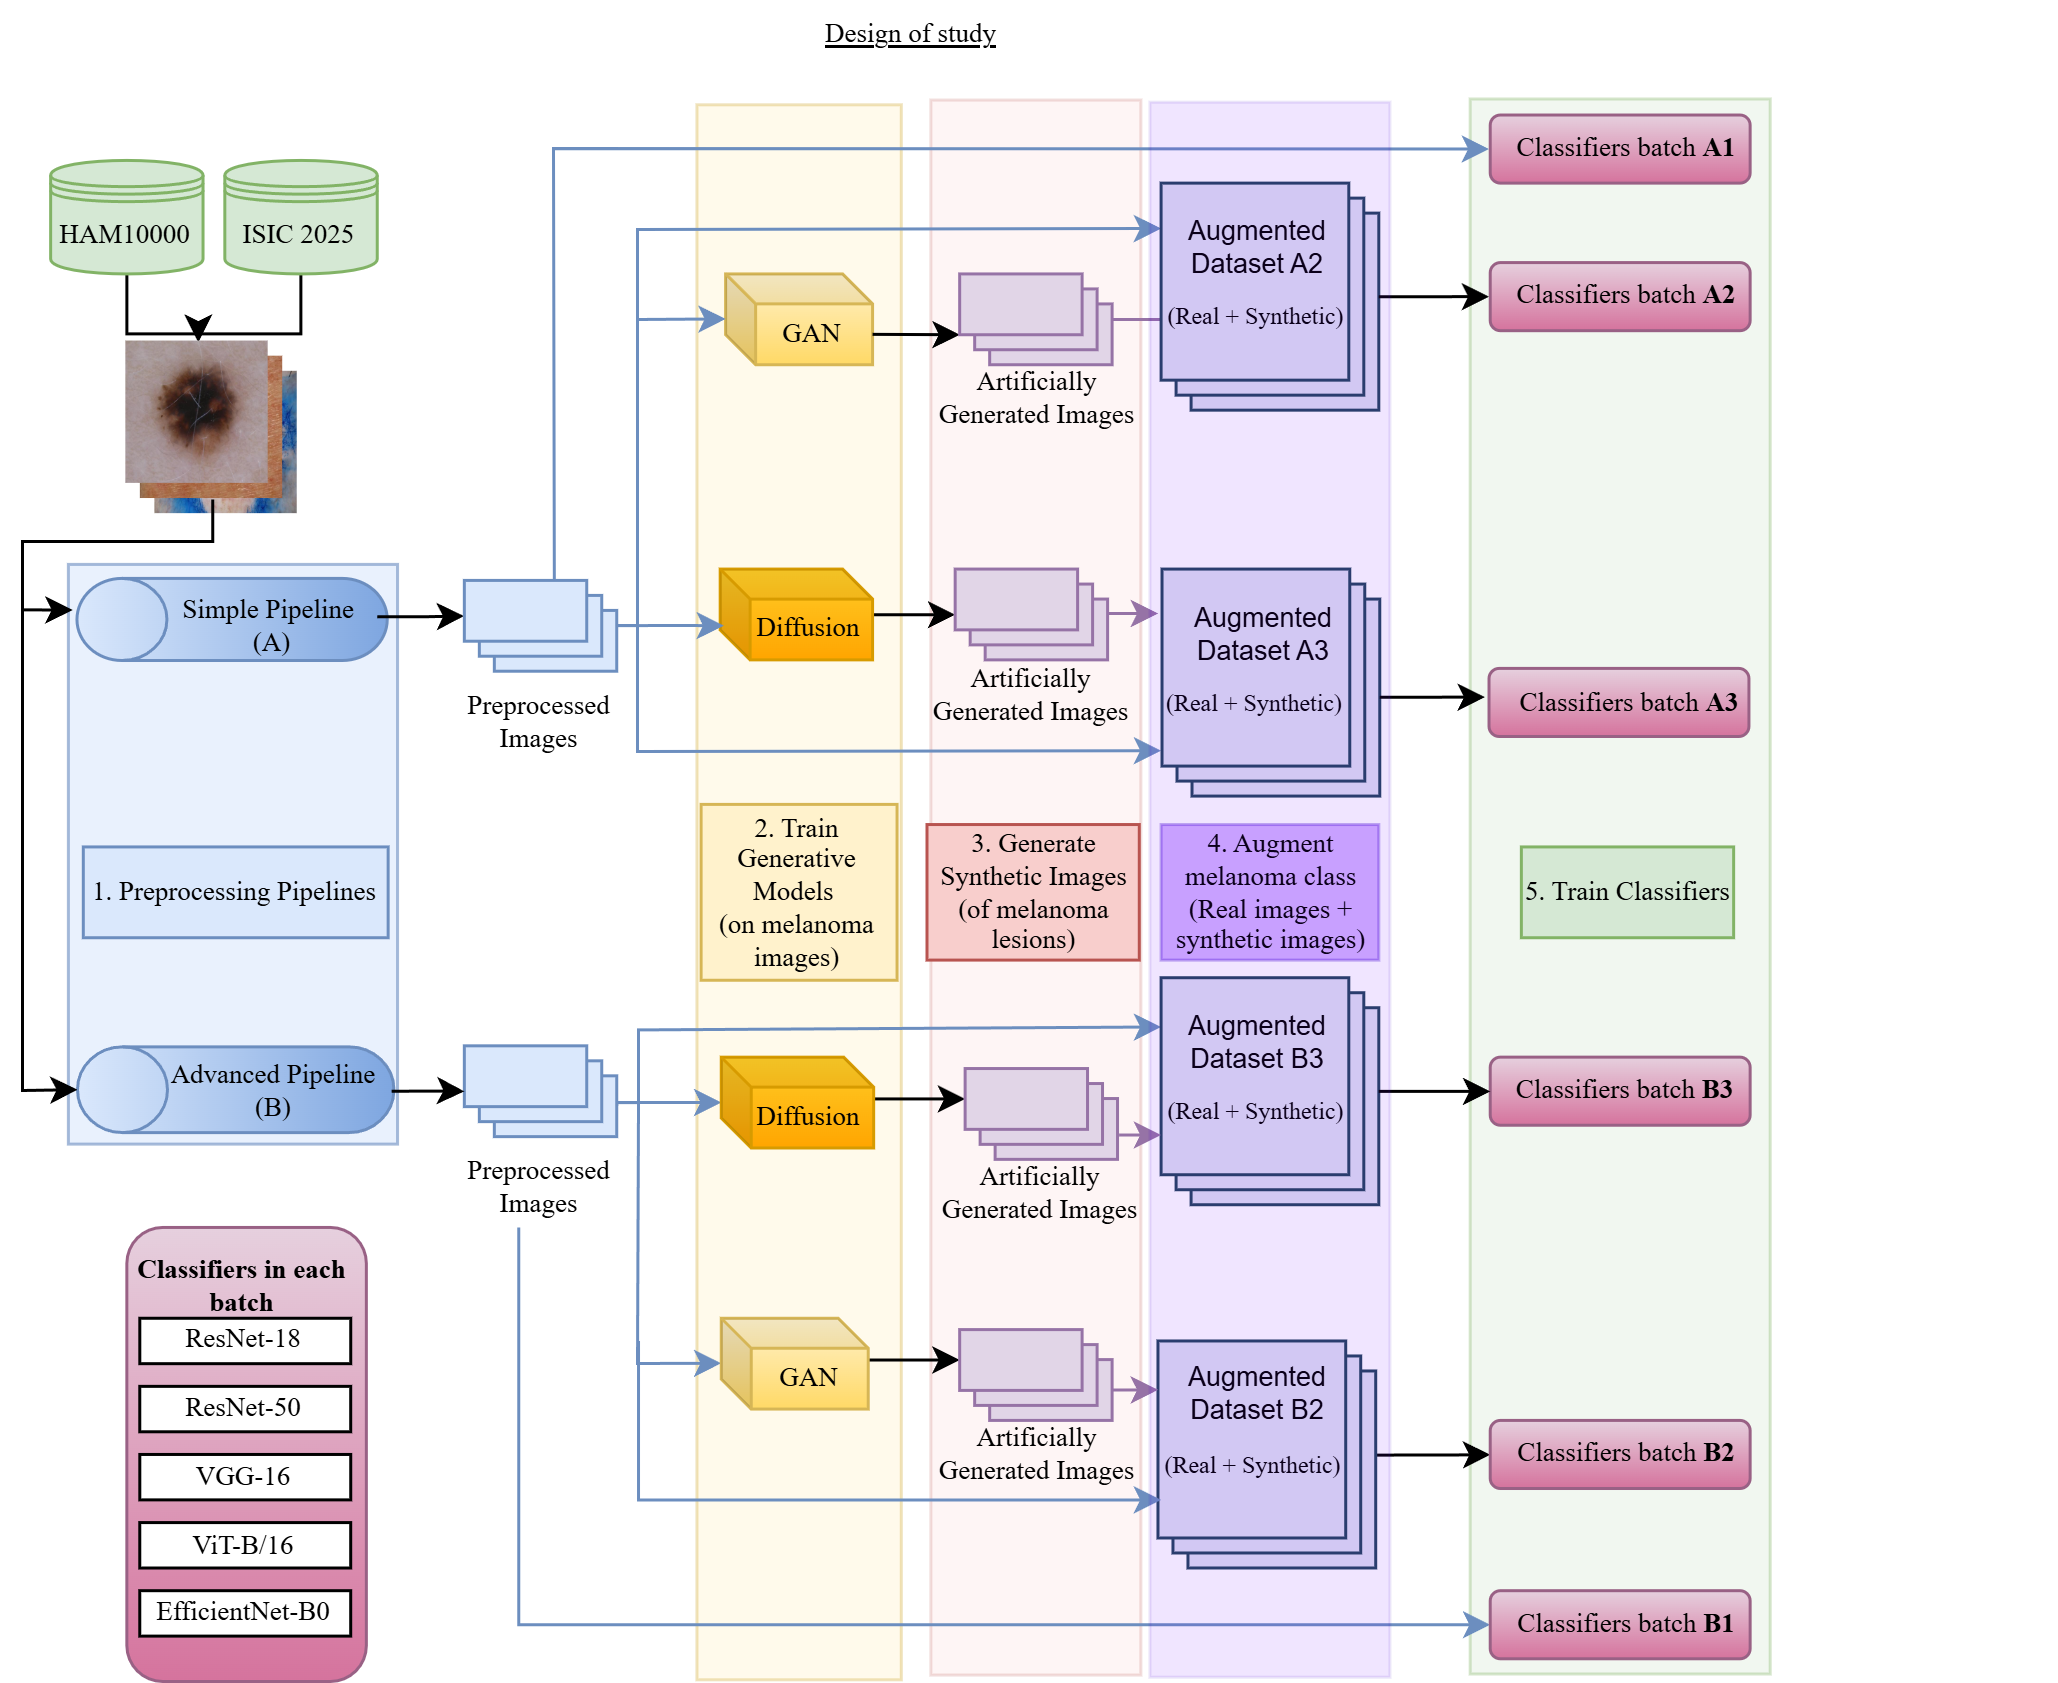
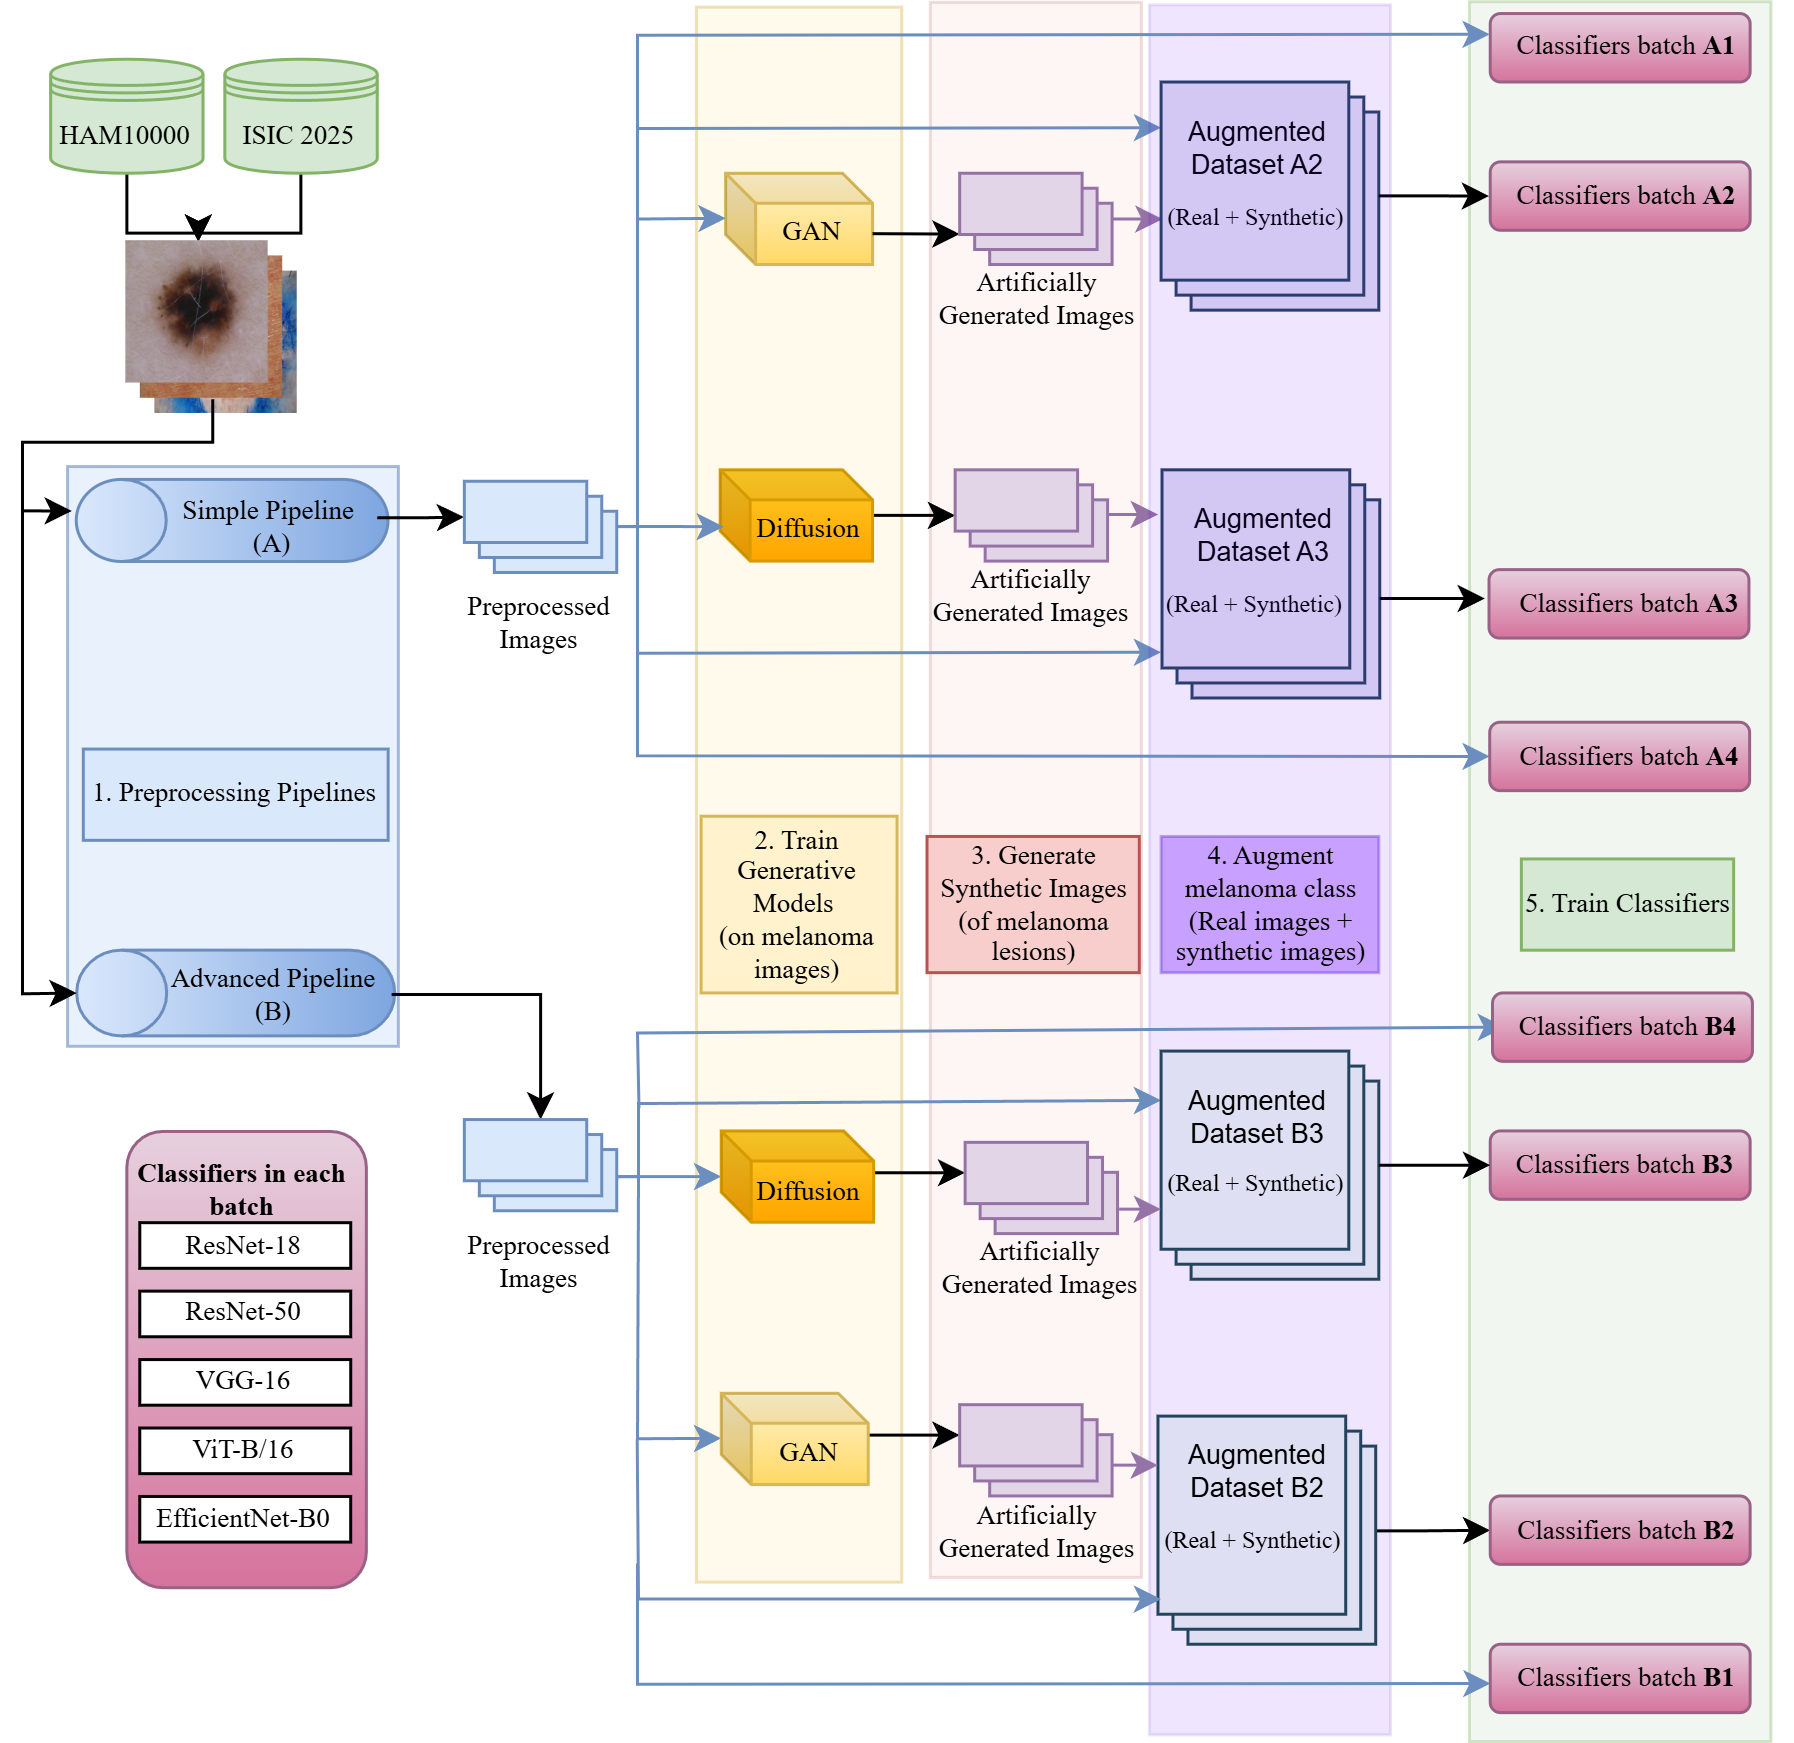
update readme

diff --git a/README.md b/README.md
@@ -56,14 +56,6 @@ Overall experimental design showing dual preprocessing pipelines, generative mod
   <em>Figure: General framework of SkinGenBench showing the two preprocessing pipelines (Basic and Advanced), generative model training (StyleGAN2-ADA and DDPM), and evaluation through image quality metrics and downstream classification tasks.</em>
 </p>
 
-**Preprocessing Pipelines:**
-- **Pipeline A (Basic):** Standard augmentations including random rotations, horizontal/vertical flips, and resizing to 256×256 resolution.
-- **Pipeline B (Advanced):** All transformations from Pipeline A plus DullRazor artifact removal algorithm to eliminate hair and ruler marks through morphological black-hat transformation and texture reconstruction.
-
-**Generative Models:**
-- **StyleGAN2-ADA:** Adaptive discriminator augmentation, 8-layer mapping network, progressive synthesis from 4×4×256 to 256×256. Trained for 240,000 images with transfer learning from FFHQ dataset.
-- **DDPM:** U-Net architecture with self-attention and residual blocks, 500-step diffusion process. Trained for 120 epochs with transfer learning from CELEBA-HQ dataset.
-
 **Image Subset Nomenclature:**
 
 | Source | Basic Preprocessing (BS) | Advanced Preprocessing (AD) |
@@ -71,7 +63,7 @@ Overall experimental design showing dual preprocessing pipelines, generative mod
 | Ground Truth | BS_GT | AD_GT |
 | StyleGAN2-ADA | BS_GN | AD_GN |
 | DDPM | BS_DF | AD_DF |
-
+| Ground-Truth Aug. | BS_GTA | AD_GTA
 ---
 
 ## 📄 Publication
@@ -161,6 +153,10 @@ Train StyleGAN2-ADA, DDPM and the classifiers with the provided configurations i
 
 
 
+# SkinGenBench: Performance Metrics
+
+## Generative Model Quality Metrics (Epoch 1000)
+
 **Fréchet Inception Distance (FID)** - Lower is better
 
 | Model | Basic Pipeline (BS) | Advanced Pipeline (AD) |
@@ -182,50 +178,73 @@ Train StyleGAN2-ADA, DDPM and the classifiers with the provided configurations i
 | StyleGAN2-ADA (BSGN/ADGN) | **3.22** | 2.77 |
 | DDPM (BSDF/ADDF) | 2.50 | 2.45 |
 
-**Global Classification Performance - Best Results (Pipeline A2: Basic + StyleGAN2-ADA)**
+---
 
-| Model | Macro-F1 | Accuracy | ROC-AUC | Brier Score |
-|-------|----------|----------|---------|-------------|
-| **ViT-B/16** | 0.8393 | 0.8985 | **0.9822** | **0.0302** |
-| **ResNet-50** | **0.8393** | **0.8989** | 0.9802 | 0.0314 |
-| VGG-16 | 0.8181 | 0.8797 | 0.9774 | 0.0365 |
-| EfficientNet-B0 | 0.7977 | 0.8657 | 0.9698 | 0.0402 |
-| ResNet-18 | 0.7525 | 0.8360 | 0.9611 | 0.0479 |
+## Global Classification Performance
 
-**Melanoma (MEL) Classification - Best Results (Pipeline A2: Basic + StyleGAN2-ADA)**
+**Best Results: Pipeline A2 (Basic Preprocessing + StyleGAN2-ADA Augmentation)**
 
-| Model | MEL F1 | Sensitivity | Specificity | Precision | ROC-AUC | PR-AUC |
-|-------|--------|-------------|-------------|-----------|---------|--------|
-| **ViT-B/16** | **0.8831** | **0.8564** | **0.9798** | **0.9115** | **0.9802** | **0.9511** |
-| ResNet-50 | 0.8663 | 0.8401 | 0.9758 | 0.8941 | 0.9787 | 0.9445 |
-| VGG-16 | 0.8438 | 0.8108 | 0.9730 | 0.8796 | 0.9729 | 0.9228 |
-| EfficientNet-B0 | 0.8126 | 0.7781 | 0.9667 | 0.8503 | 0.9633 | 0.9043 |
-| ResNet-18 | 0.7724 | 0.7390 | 0.9576 | 0.8089 | 0.9542 | 0.8774 |
+| Model | Macro-F1 | Balanced Acc | MCC | ROC-AUC | Accuracy | Brier Score ↓ |
+|-------|----------|--------------|-----|---------|----------|---------------|
+| **ViT-B/16** | **0.8393** | 0.8348 | 0.8515 | **0.9822** | **0.8985** | **0.0302** |
+| **ResNet-50** | **0.8393** | **0.8433** | **0.8525** | 0.9802 | **0.8989** | 0.0314 |
+| VGG-16 | 0.8181 | 0.8167 | 0.8243 | 0.9774 | 0.8797 | 0.0365 |
+| EfficientNet-B0 | 0.7977 | 0.7871 | 0.8033 | 0.9698 | 0.8657 | 0.0402 |
+| ResNet-18 | 0.7525 | 0.7424 | 0.7594 | 0.9611 | 0.8360 | 0.0479 |
 
-**Key Findings:**
-- Synthetic augmentation improved melanoma F1-score by **8-15%** absolute across all architectures
-- ViT-B/16 achieved the best melanoma-specific performance (F1≈0.88, ROC-AUC≈0.98)
-- Pipeline A (Basic preprocessing) consistently outperformed Pipeline B (Advanced preprocessing)
-- StyleGAN2-ADA generated more realistic and class-coherent samples than DDPM (lower FID, higher IS)
+---
+
+## Melanoma (MEL) Classification Performance
+
+**Best Results: Pipeline A2 (Basic Preprocessing + StyleGAN2-ADA Augmentation)**
+
+| Model | MEL F1 | Sensitivity | Specificity | Precision | ROC-AUC | PR-AUC | DOR |
+|-------|--------|-------------|-------------|-----------|---------|--------|-----|
+| **ViT-B/16** | **0.8831** | **0.8564** | **0.9798** | **0.9115** | **0.9802** | **0.9511** | **288.94** |
+| ResNet-50 | 0.8663 | 0.8401 | 0.9758 | 0.8941 | 0.9787 | 0.9445 | 211.93 |
+| VGG-16 | 0.8438 | 0.8108 | 0.9730 | 0.8796 | 0.9729 | 0.9228 | 154.56 |
+| EfficientNet-B0 | 0.8126 | 0.7781 | 0.9667 | 0.8503 | 0.9633 | 0.9043 | 101.76 |
+| ResNet-18 | 0.7724 | 0.7390 | 0.9576 | 0.8089 | 0.9542 | 0.8774 | 63.88 |
+
+### Key Melanoma Detection Improvements (A2 vs A1)
+
+- **MEL F1-score gains**: +8–15% across all architectures
+- **ViT-B/16**: MEL F1 improved from 0.7401 → **0.8831** (+14.3 percentage points)
+- **ResNet-50**: MEL F1 improved from 0.7362 → **0.8663** (+13.0 percentage points)
+- All models achieved ROC-AUC > 0.96 for melanoma detection
+
+---
+
+## Pipeline Comparison Summary
+
+| Pipeline | Description | Best Use Case |
+|----------|-------------|---------------|
+| **A2** | Basic preprocessing + StyleGAN2-ADA | **Recommended**: Best overall performance |
+| A3 | Basic preprocessing + DDPM | Good diversity, lower fidelity |
+| B2 | Advanced preprocessing + StyleGAN2-ADA | Marginal gains over A2 |
+| B3 | Advanced preprocessing + DDPM | Lowest performance |
+| A4/B4 | Standard augmentation only (no synthetic) | Baseline comparison |
+
+**Key Finding**: Generative architecture choice (GAN vs Diffusion) has a stronger influence on diagnostic performance than preprocessing complexity (Basic vs Advanced).
 
 <p align="center">
   <img src="images/gradcam.png" alt="Grad-CAM Visualization" width="600"/>
   <br>
-  <em>Figure: Grad-CAM saliency maps from ViT-B/16 and ResNet-50 classifiers trained on A2 pipeline (Basic + StyleGAN2-ADA). ResNet-50 produces compact, morphologically aligned activations, while ViT-B/16 shows broader, context-sensitive patterns. Diffusion-augmented samples yield smoother anatomically coherent attention maps.</em>
+  <em>Figure: Grad-CAM visualizations comparing ResNet-50 and ViT-B/16 across different preprocessing pipelines and generative models. ResNet-50 produces compact, lesion-aligned saliency maps, while ViT-B/16 shows broader attention patterns. Synthetic samples exhibit more irregular activations, with ADDF showing the smoothest, most anatomically coherent results.</em>
 </p>
 
 ---
 
 ## Citation
 
-If you find this work useful, please cite our paper:
+If you find this work useful, please cite our paper: (will be updated soon)
 ```bibtex
 @inproceedings{pritam2025skingenbench,
   title={SkinGenBench: Generative Model and Preprocessing Effects for Synthetic Dermoscopic Augmentation in Melanoma Diagnosis},
   author={Pritam, N. A. Adarsh and O, Jeba Shiney and Jain, Sanyam},
-  booktitle={Proceedings of the International Conference on Medical Image Computing and Computer-Assisted Intervention},
+  booktitle={},
   year={2025},
-  organization={Springer}
+  organization={}
 }
 ```
 ---
